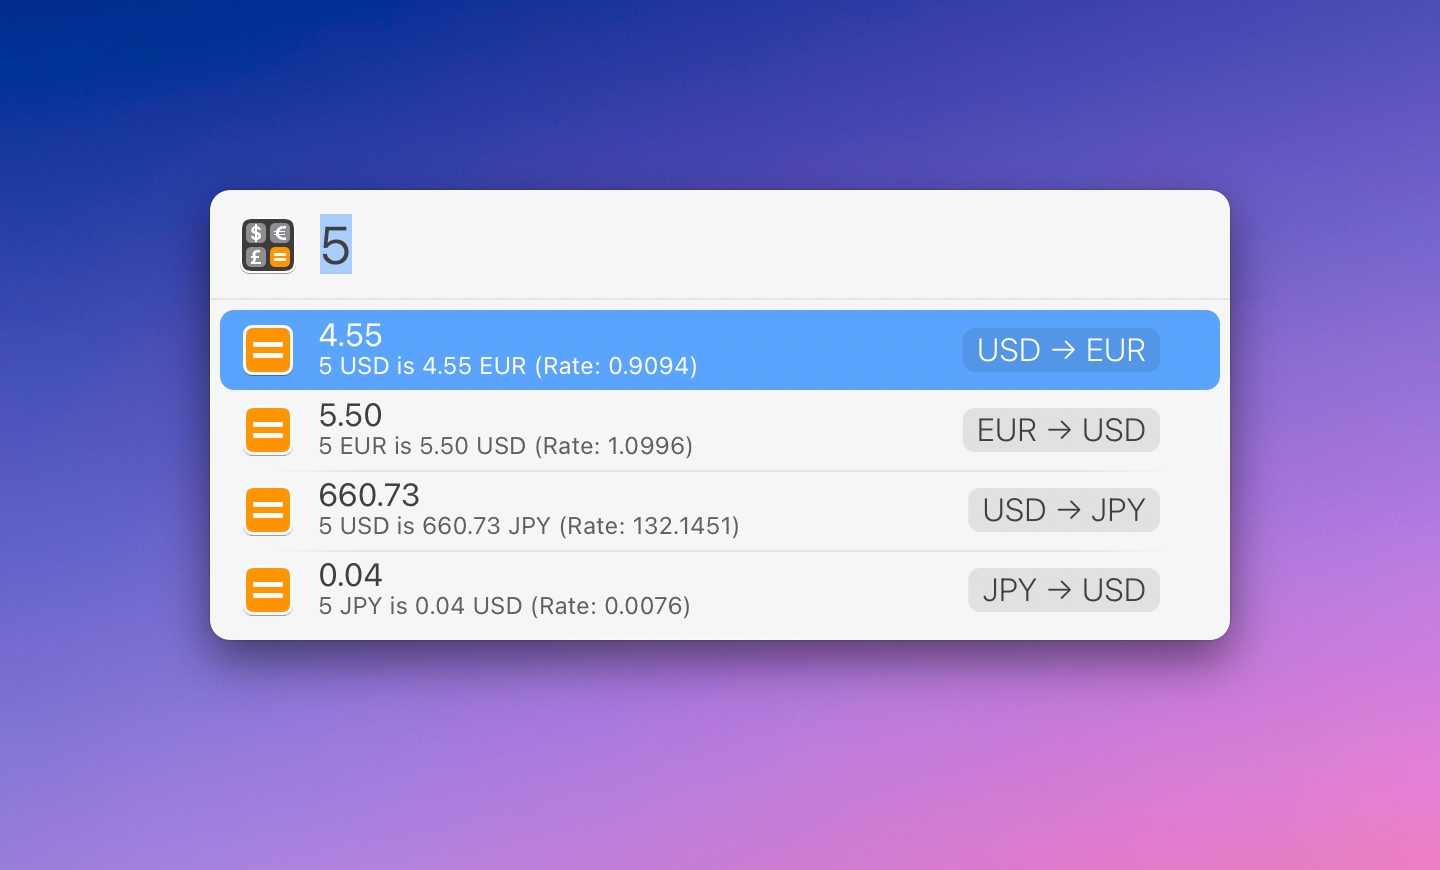
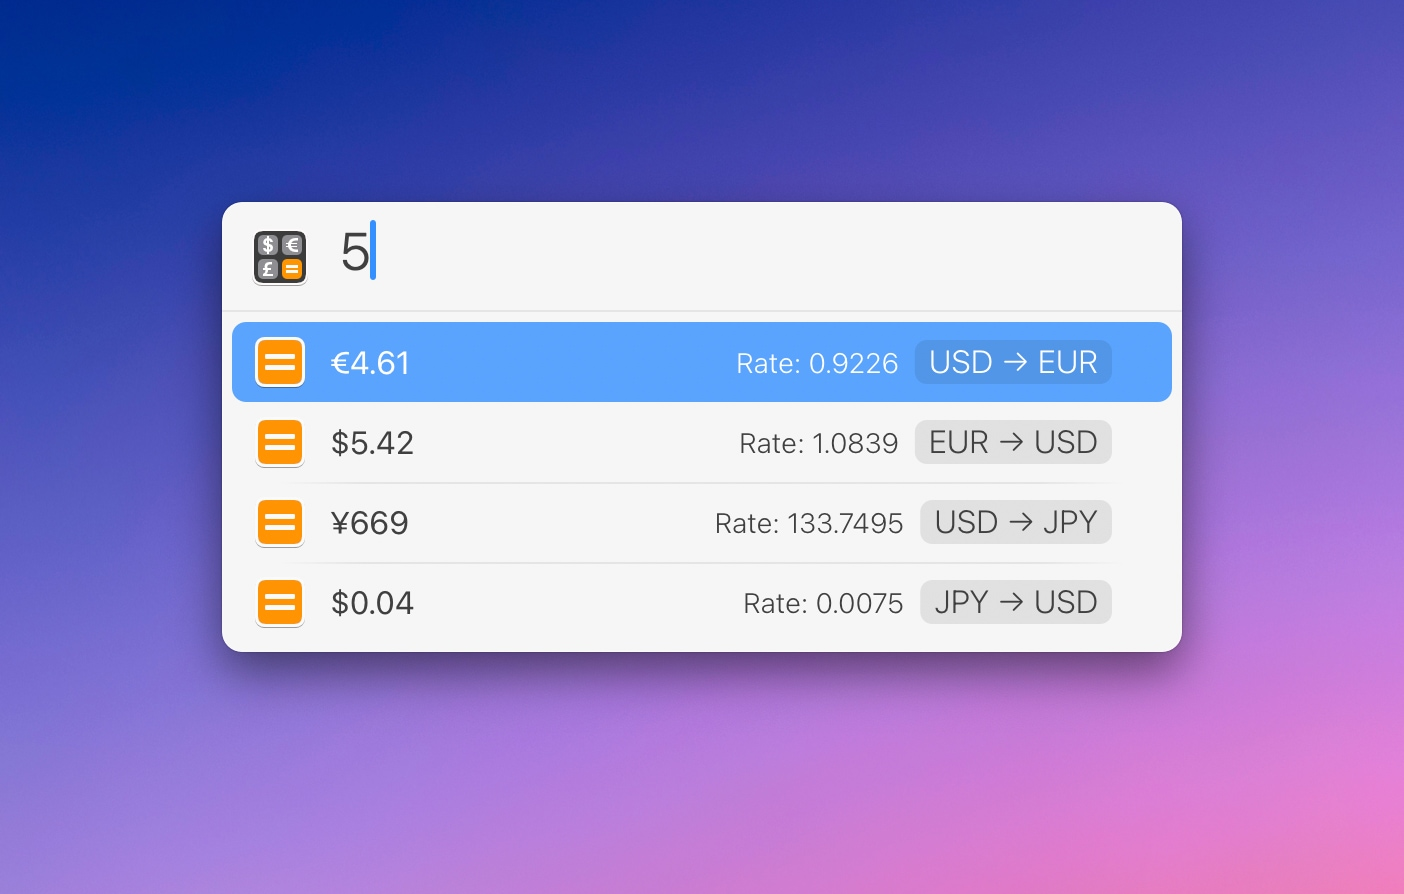
1.4
Now using `toLocaleString` to format amounts according to your system locale. This has quiet some implications for the action:
- it also eliminates the need for the decimal separator setting
- it enables the possibility to display amounts including the currency symbol … and thus a simpler results view

diff --git a/Converter-Actions/Currency Converter.lbaction/Contents/Scripts/default.js b/Converter-Actions/Currency Converter.lbaction/Contents/Scripts/default.js
@@ -10,9 +10,6 @@ Documentation
 - https://exchangeratesapi.io/documentation/ (old version)
 - https://developer.obdev.at/launchbar-developer-documentation/#/javascript-http/ 
 
-TODO: 
-- Integrate addGroupSeparators function to output for better legibility … need to change how/when I replace decimal separators in main func (see 1.2.1) … 
-
 */
 String.prototype.localizationTable = 'default';
 
@@ -45,10 +42,7 @@ function main(argument) {
   }
 
   // CLEAN UP ARGUMENT
-  var usesCommaSeparator = false;
-
   if (argument.startsWith(',')) {
-    usesCommaSeparator = true;
     argument = 0 + argument;
   }
 
@@ -57,12 +51,7 @@ function main(argument) {
     .replace(/(?<=\d)(,|\.)(?=\d{3})/g, ''); // Strip group separators
 
   if (argument.includes(',')) {
-    usesCommaSeparator = true;
-    argument = parseFloat(argument.replace(/\,/g, '.')).toFixed(2);
-  }
-
-  if (decimalSeparator == ',') {
-    usesCommaSeparator = true;
+    argument = parseFloat(argument.replace(/\,/g, '.'));
   }
 
   // DO THE CONVERTING
@@ -74,7 +63,6 @@ function main(argument) {
   var oneBaseUnitInEuro = 1 / baseToEuroRate;
 
   if (targetCurrencies == '') {
-    // return [targetsSetting];
     return [targetsSetting, baseSetting];
   }
 
@@ -89,75 +77,65 @@ function main(argument) {
 
       var baseToTarget = oneBaseUnitInEuro * targetToEuroRate;
       var targetToBase = oneTargetUnitInEuro * baseToEuroRate;
+      var targetResult = argument * baseToTarget;
+      var baseResult = argument * targetToBase;
 
-      var targetResult = (argument * baseToTarget).toFixed(2);
-      var baseResult = (argument * targetToBase).toFixed(2);
-
-      var subTargetResult =
-        argument +
-        ' ' +
-        base +
-        ' is '.localize() +
-        targetResult +
-        ' ' +
-        targetCurrency +
-        ' (Rate: '.localize() +
-        baseToTarget.toFixed(4) +
-        ')';
-
-      var subBaseResult =
-        argument +
-        ' ' +
-        targetCurrency +
-        ' is '.localize() +
-        baseResult +
-        ' ' +
-        base +
-        ' (Rate: '.localize() +
-        targetToBase.toFixed(4) +
-        ')';
+      var displayArgument = parseFloat(argument).toLocaleString(
+        cLocale,
+        minMaxFractionDefault
+      );
 
       result.push(
         {
-          title: targetResult,
-          subtitle: subTargetResult,
+          title: targetResult.toLocaleString(cLocale, {
+            style: 'currency',
+            currency: targetCurrency,
+          }),
+          label:
+            'Rate: '.localize() +
+            baseToTarget.toLocaleString(cLocale, minMaxFractionRate),
           icon: 'result',
           badge: base + ' → ' + targetCurrency,
           action: 'showDetails',
           actionArgument: {
-            result: targetResult,
+            result: targetResult.toLocaleString(cLocale, minMaxFractionDefault),
+            paste: targetResult.toLocaleString(cLocale, {
+              style: 'currency',
+              currency: targetCurrency,
+            }),
             target: targetCurrency,
-            rate: baseToTarget.toFixed(4).toString(),
-            argument: argument.toString(),
+            rate: baseToTarget.toLocaleString(cLocale, minMaxFractionRate),
+            argument: displayArgument,
             base: base,
-            usesCommaSeparator: usesCommaSeparator,
           },
         },
         {
-          title: baseResult,
-          subtitle: subBaseResult,
+          title: baseResult.toLocaleString(cLocale, {
+            style: 'currency',
+            currency: base,
+          }),
+          label:
+            'Rate: '.localize() +
+            targetToBase.toLocaleString(cLocale, minMaxFractionRate),
+          // subtitle: subBaseResult,
           icon: 'result',
           badge: targetCurrency + ' → ' + base,
           action: 'showDetails',
           actionArgument: {
-            result: baseResult,
+            result: baseResult.toLocaleString(cLocale, minMaxFractionDefault),
+            paste: baseResult.toLocaleString(cLocale, {
+              style: 'currency',
+              currency: base,
+            }),
             target: base,
-            rate: targetToBase.toFixed(4).toString(),
-            argument: argument.toString(),
+            rate: targetToBase.toLocaleString(cLocale, minMaxFractionRate),
+            argument: displayArgument,
             base: targetCurrency,
-            usesCommaSeparator: usesCommaSeparator,
           },
         }
       );
     }
   });
-
-  if (usesCommaSeparator == true) {
-    result.forEach(function (item) {
-      item.title = item.title.toString().replace(/\./g, ',');
-      item.subtitle = item.subtitle.toString().replace(/\./g, ',');
-    });
-  }
 
   return result;
 }
@@ -165,7 +143,7 @@ function main(argument) {
 function showDetails(dict) {
   // PASTE
   if (LaunchBar.options.shiftKey) {
-    LaunchBar.paste(dict.result);
+    LaunchBar.paste(dict.paste);
     return;
   }
 
@@ -194,12 +172,6 @@ function showDetails(dict) {
       icon: 'from',
     },
   ];
-
-  if (dict.usesCommaSeparator == true) {
-    details.forEach(function (item) {
-      item.title = item.title.replace(/\./g, ',');
-    });
-  }
 
   var localDataInfo = getLocalDataInfo(); // [dataDate, apiUsageStats]
 
@@ -257,33 +229,13 @@ function settings() {
     baseSetting.badge = base;
   }
 
-  var decimalSeparator = Action.preferences.decimalSeparator;
-
-  var decimalSeparatorSetting = {
-    title: 'Toogle decimal separator'.localize(),
-    icon: 'settings',
-    badge: '.',
-    action: 'toogleDecimalSeparator',
-    actionArgument: ',',
-  };
-
-  if (decimalSeparator != undefined && decimalSeparator == ',') {
-    decimalSeparatorSetting.badge = ',';
-    decimalSeparatorSetting.actionArgument = '.';
-  }
-
   var setAPISetting = {
     title: 'Set API key'.localize(),
     icon: 'keyTemplate',
     action: 'setApiKey',
   };
 
-  var settingItems = [
-    targetsSetting,
-    baseSetting,
-    decimalSeparatorSetting,
-    setAPISetting,
-  ];
+  var settingItems = [targetsSetting, baseSetting, setAPISetting];
 
   var localDataInfo = getLocalDataInfo();
 
@@ -382,11 +334,6 @@ function removeTarget(symbol) {
     }
   });
   return targetCurrencyList();
-}
-
-function toogleDecimalSeparator(separator) {
-  Action.preferences.decimalSeparator = separator;
-  return settings();
 }
 
 function getLocalDataInfo() {

diff --git a/Converter-Actions/Currency Converter.lbaction/Contents/Scripts/global.js b/Converter-Actions/Currency Converter.lbaction/Contents/Scripts/global.js
@@ -1,5 +1,15 @@
 const apiKey = Action.preferences.apiKey;
 const ratesDataPath = Action.supportPath + '/localRatesData.json';
+const cLocale = LaunchBar.currentLocale;
+
+const minMaxFractionDefault = {
+  maximumFractionDigits: 2,
+  minimumFractionDigits: 2,
+};
+const minMaxFractionRate = {
+  maximumFractionDigits: 4,
+  minimumFractionDigits: 2,
+};
 
 const currencyListData = File.readJSON(
   Action.path + '/Contents/Resources/currencyList.json'
@@ -9,11 +19,6 @@ if (LaunchBar.currentLocale == 'de') {
   var currencyList = currencyListData.symbols_de;
 } else {
   var currencyList = currencyListData.symbols;
-}
-
-var decimalSeparator = Action.preferences.decimalSeparator;
-if (decimalSeparator == undefined) {
-  decimalSeparator = '.';
 }
 
 // SETTING VARIABLES

diff --git a/Converter-Actions/README.md b/Converter-Actions/README.md
@@ -4,13 +4,13 @@
 
 ## Currency converter action: 
 
-<img src="01.jpg" width="720"/> 
+<img src="01.jpg" width="702"/> 
 
 **The purpose of this action is to convert currencies you use frequently with as little input as necessary.** 
  
 You can drill into each result for a detailed view. Of course you can do the usual things with a selected result (e.g. paste with `Shift (⇧)` + `Enter (↩)`).
 
-<img src="02.jpg" width="720"/> 
+<img src="02.jpg" width="702"/> 
 
 If you hit return on a currency rate in the detailed view you will be taken to Google Finance.
 
